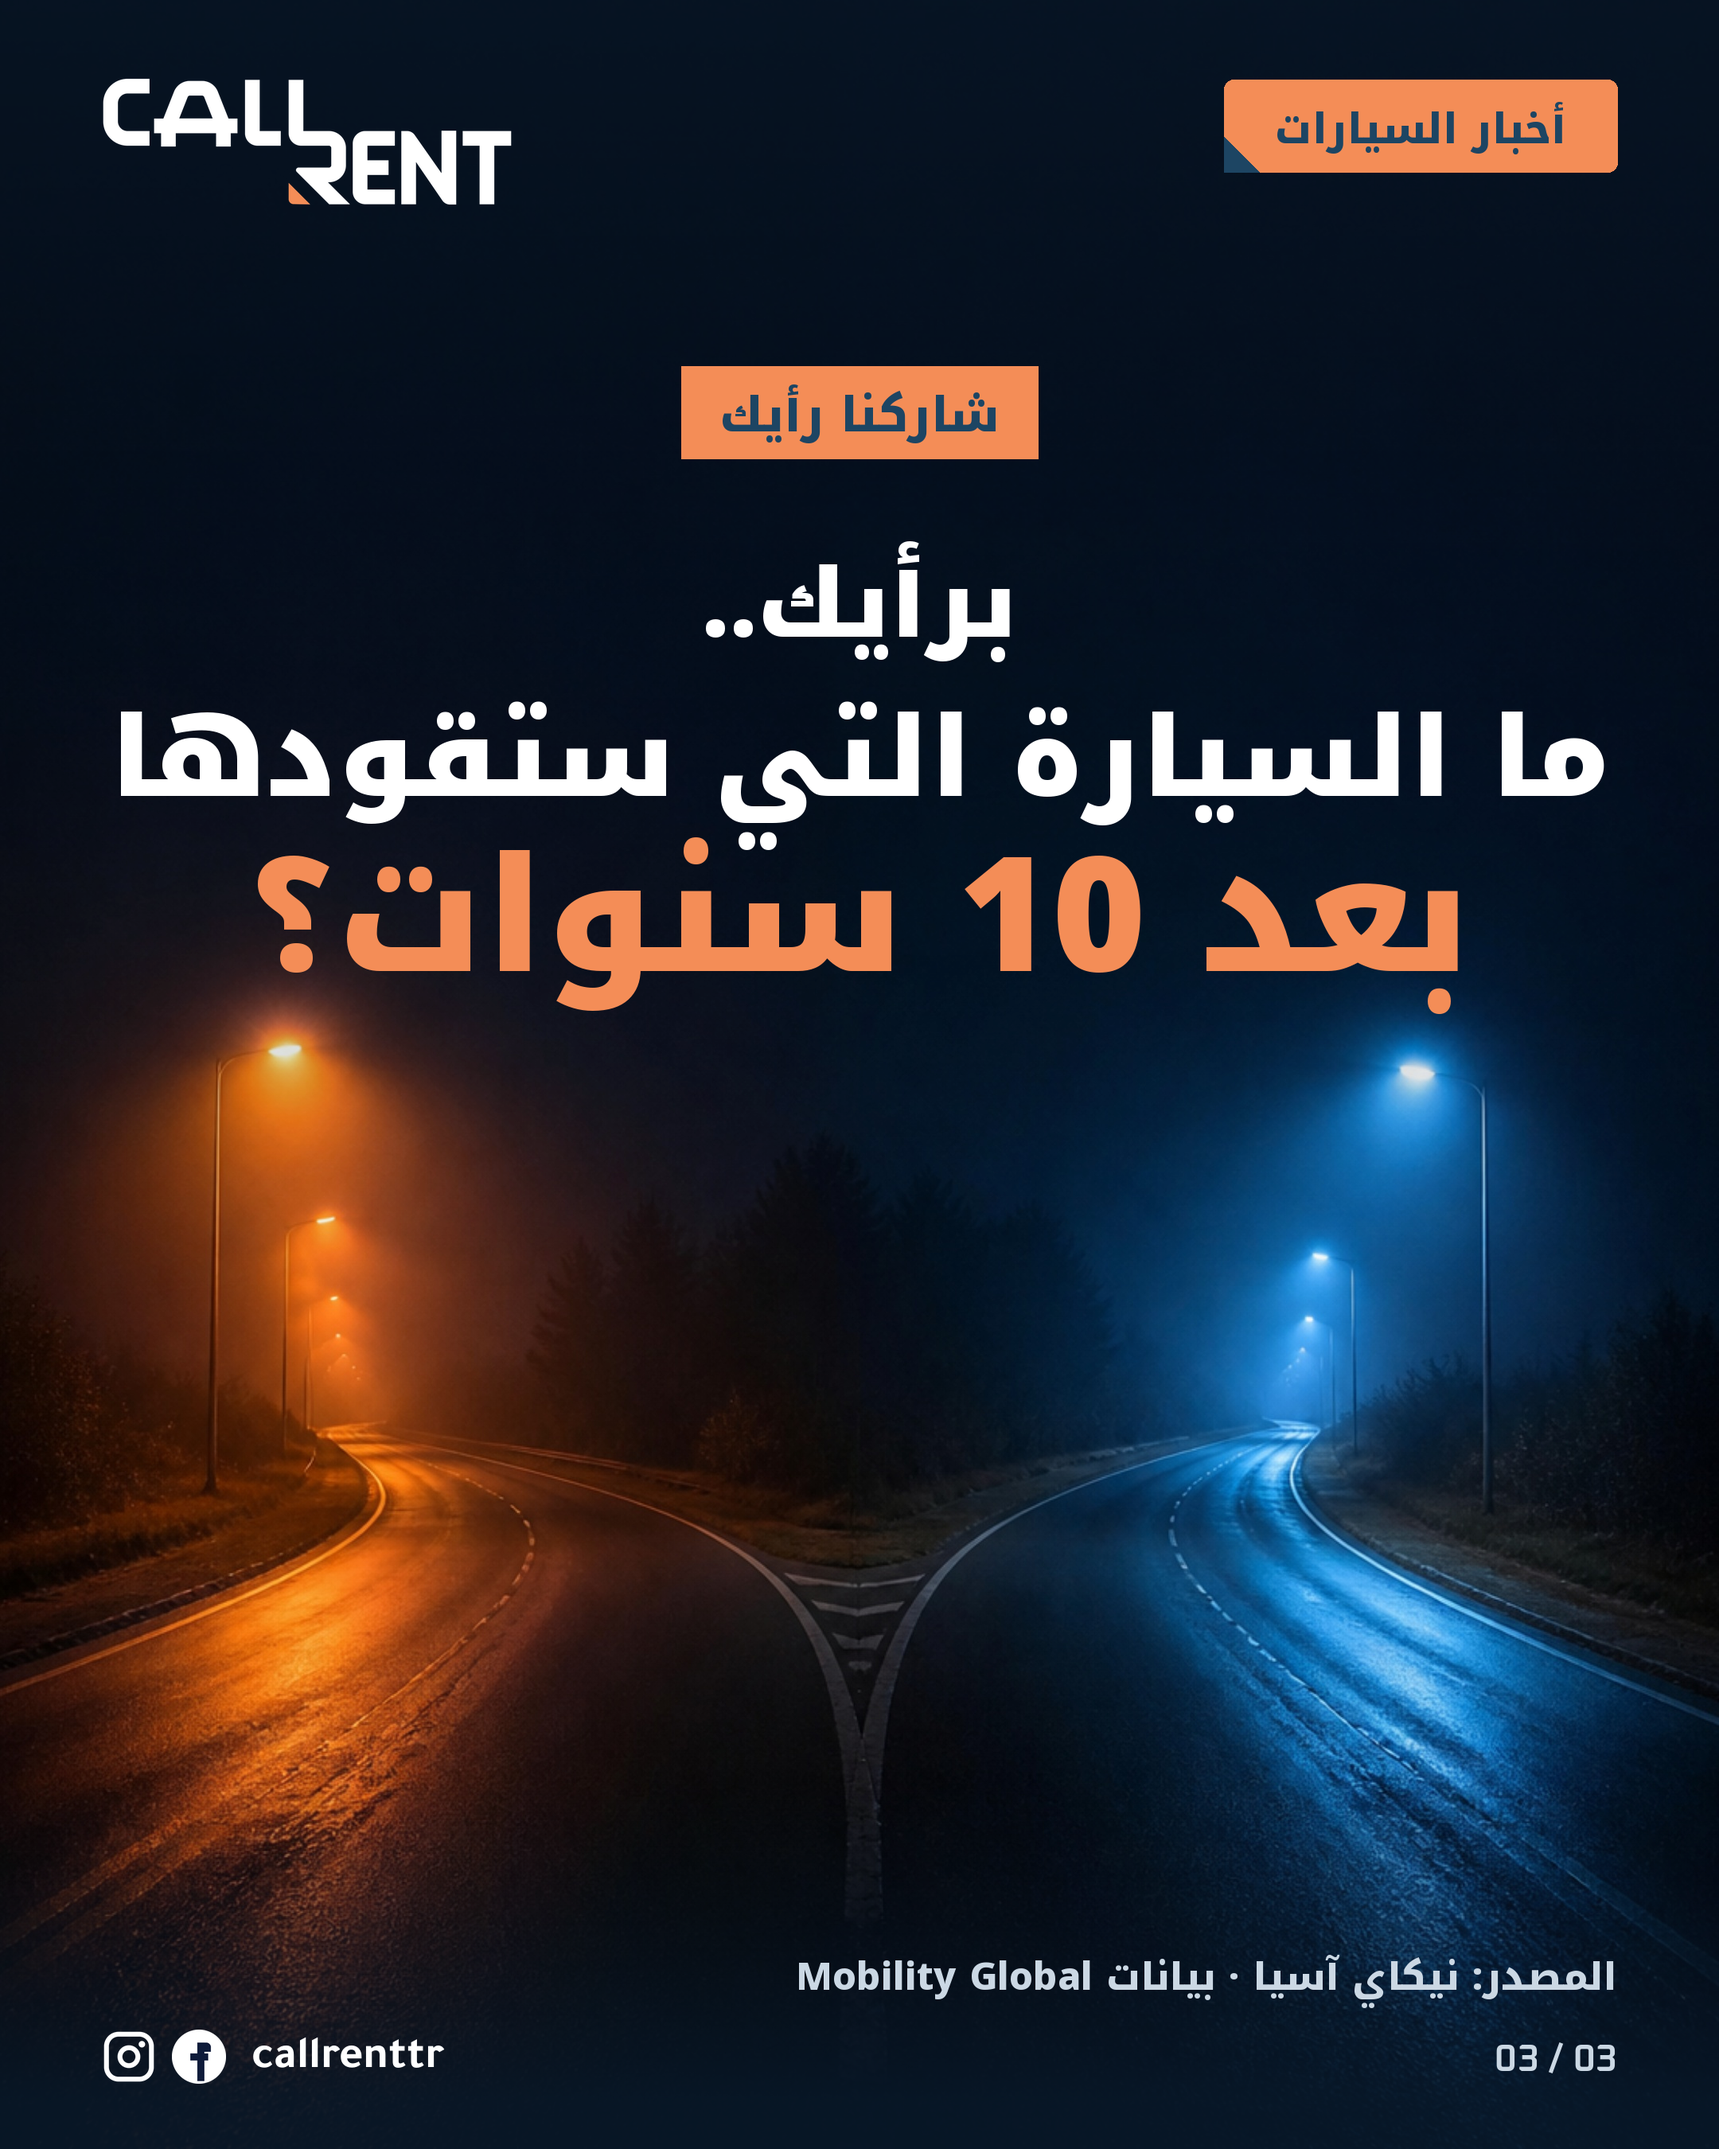
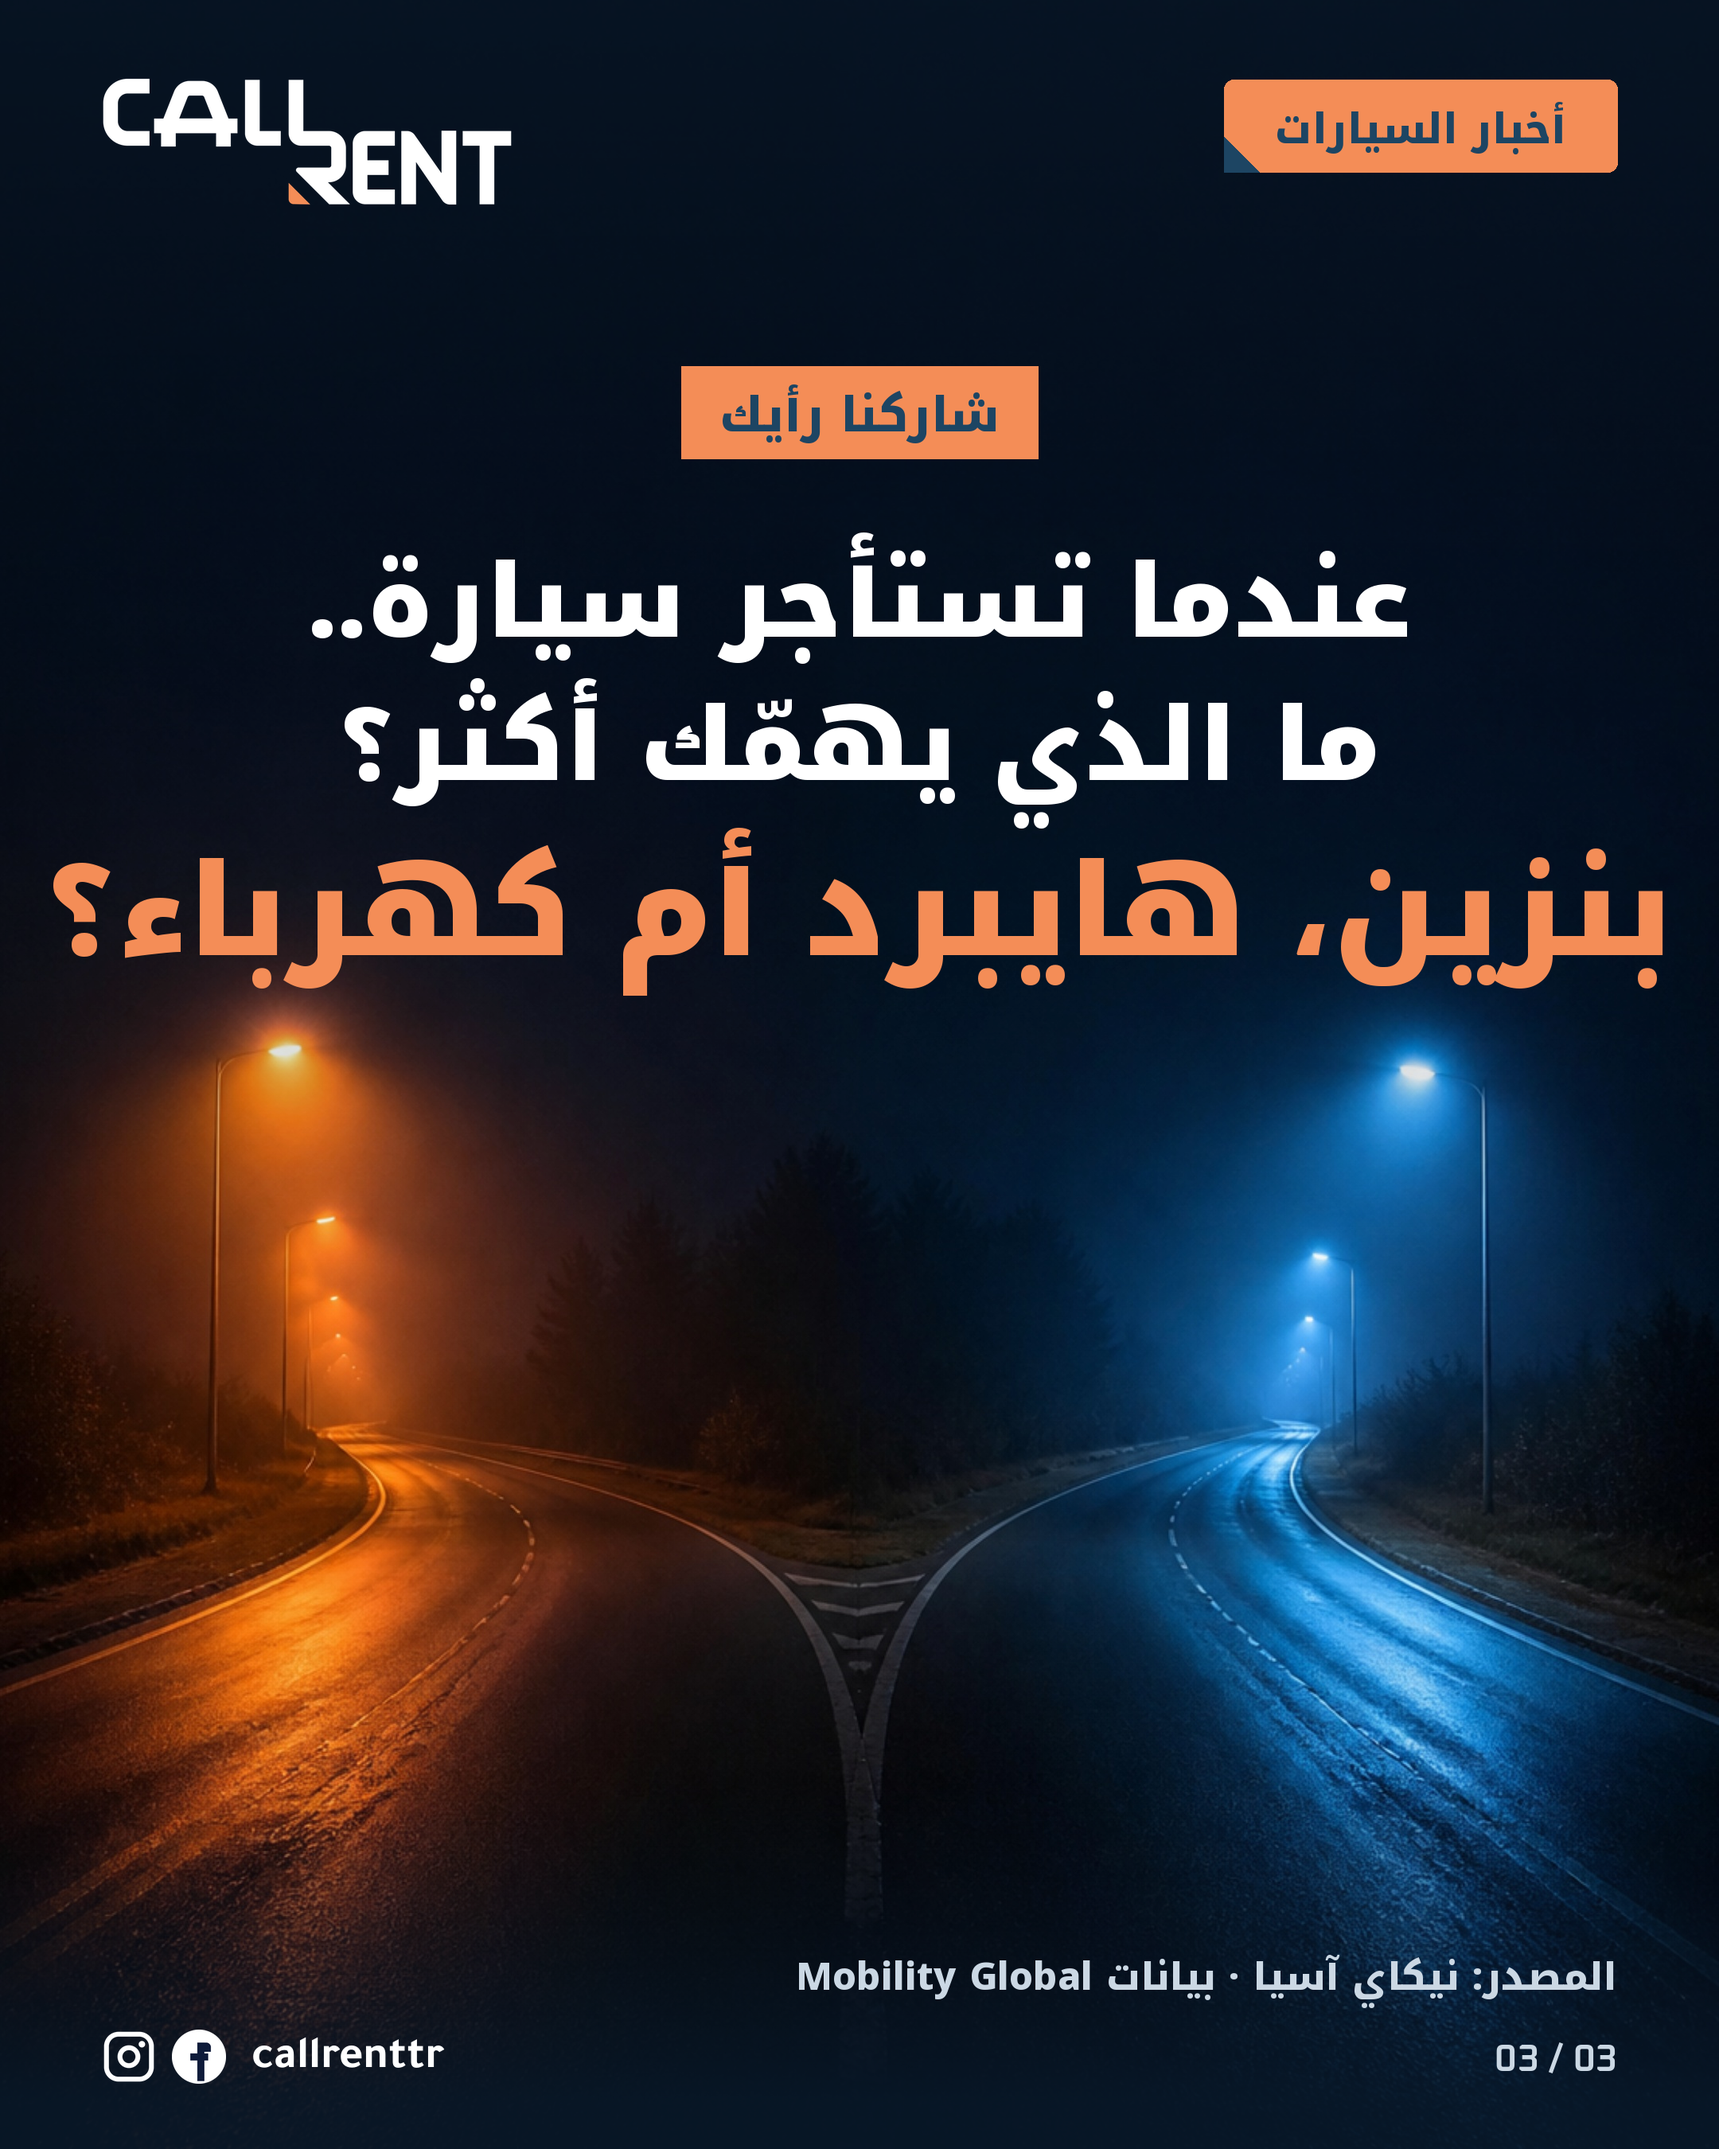
Gasoline-share news: question slide on fuel type when renting (draft)
Claude-Session: https://claude.ai/code/session_01JWxxZZBXcuDznNNTjM86b7

Changed region(s): [[0.031, 0.2489, 0.9926, 0.4667], [0.8685, 0.3111, 0.9306, 0.3733]]

diff --git a/marketing/news/fuel_share.py b/marketing/news/fuel_share.py
@@ -135,9 +135,9 @@ def ask(out):
     fe = F(AR_BOLD, S(30)); ew = w_ar('شاركنا رأيك', fe) + S(48)
     d.rectangle((cx - ew/2, S(230), cx + ew/2, S(288)), fill=O+(255,))
     ar(d, (cx, S(261)), 'شاركنا رأيك', fe, N+(255,), 'mm')
-    ar(d, (cx, S(400)), 'برأيك..', F(AR_BLACK, S(60)), Wh+(255,), 'ms')
-    ar(d, (cx, S(500)), 'ما السيارة التي ستقودها', F(AR_BLACK, S(70)), Wh+(255,), 'ms')
-    ar(d, (cx, S(610)), 'بعد 10 سنوات؟', F(AR_BLACK, S(100)), O+(255,), 'ms')
+    ar(d, (cx, S(400)), 'عندما تستأجر سيارة..', F(AR_BLACK, S(64)), Wh+(255,), 'ms')
+    ar(d, (cx, S(490)), 'ما الذي يهمّك أكثر؟', F(AR_BLACK, S(64)), Wh+(255,), 'ms')
+    ar(d, (cx, S(600)), 'بنزين، هايبرد أم كهرباء؟', F(AR_BLACK, S(80)), O+(255,), 'ms')
     chrome(cv, 3, 3)
     cv.convert('RGB').save(out, optimize=True); print(out, cv.size)
 
